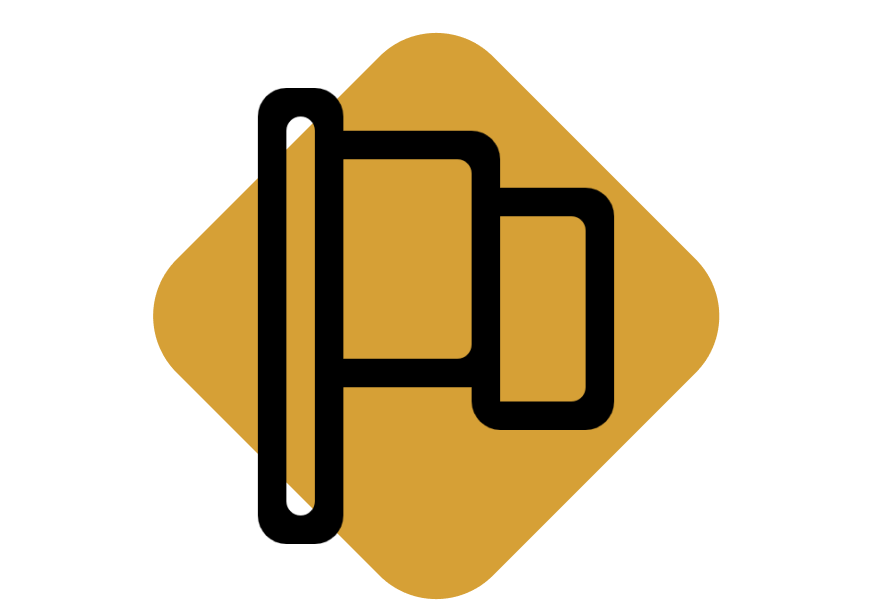
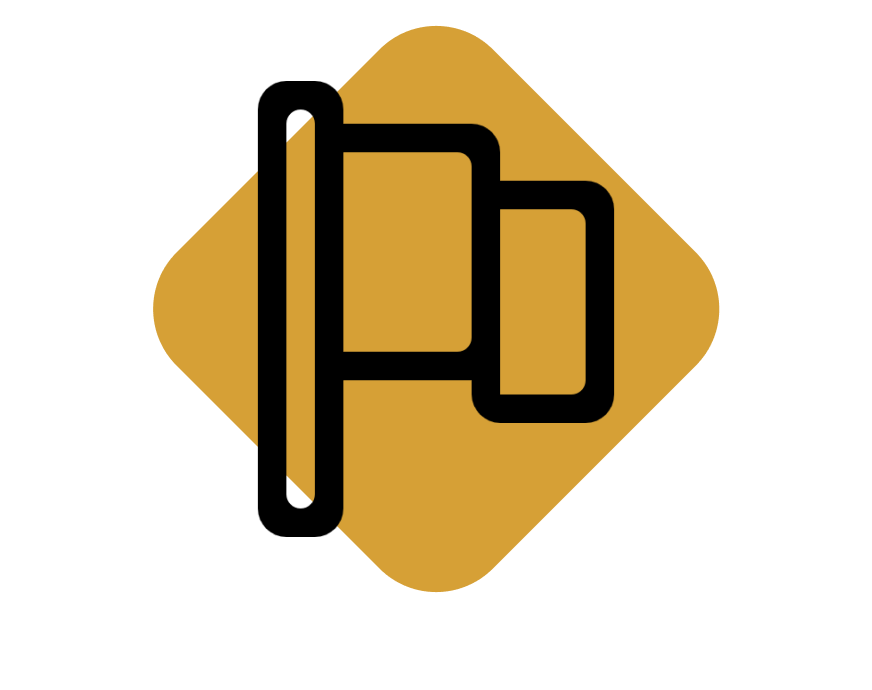
Add drop shadow and remove leftover content

Changed region(s): [[0.1548, 0.0311, 0.836, 0.9967]]

diff --git a/styles/Home.module.css b/styles/Home.module.css
@@ -123,10 +123,6 @@ a.mailto:hover {
   max-width: 250px;
 }
 
-.aboutSpacer {
-  margin: auto;
-}
-
 .groupPic {
   width: 90%;
   height: 100%;
@@ -148,7 +144,17 @@ a.mailto:hover {
 
 .aboutImageContainer {
   width: 60%;
+  height: 40%;
   margin: 0 auto;
+}
+
+.aboutImage:hover {
+  -webkit-filter: drop-shadow(5px 5px 5px black);
+  filter: drop-shadow(0px 8px 5px #222);
+}
+
+.aboutImageContainer > span {
+  overflow: visible;
 }
 
 .contacts {

diff --git a/pages/index.js b/pages/index.js
@@ -60,7 +60,6 @@ export default function Home() {
           <div className={styles.aboutFlexContainer}>
             <div className={styles.aboutBlock}>
               <div className={styles.aboutImageContainer}>
-                <div className={styles.aboutSpacer}></div>
                 <Image className={styles.aboutImage} src={aboutHosts}></Image>
               </div>
               <h2>Hosts</h2>
